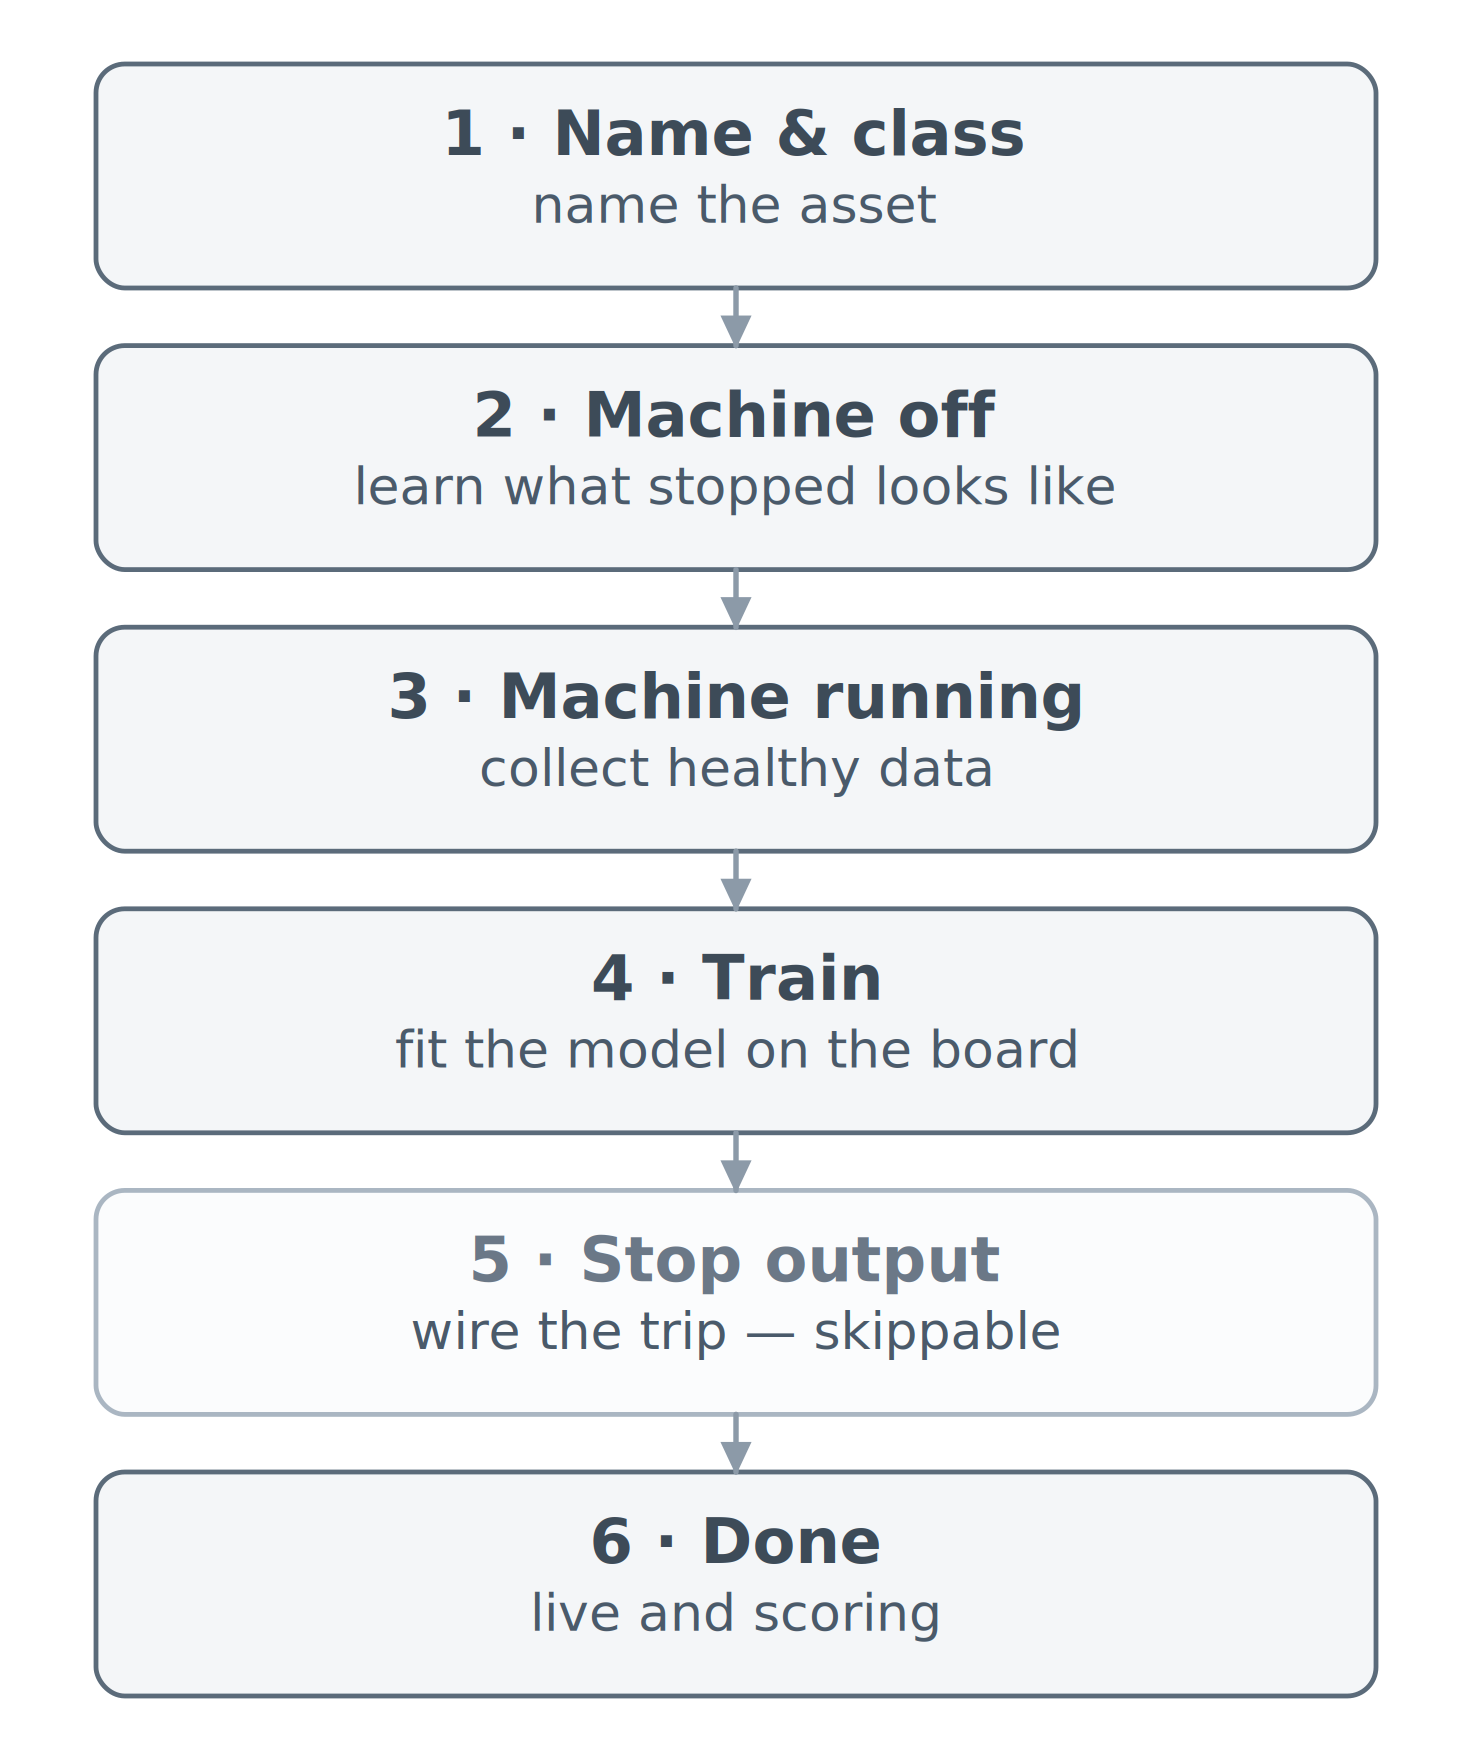
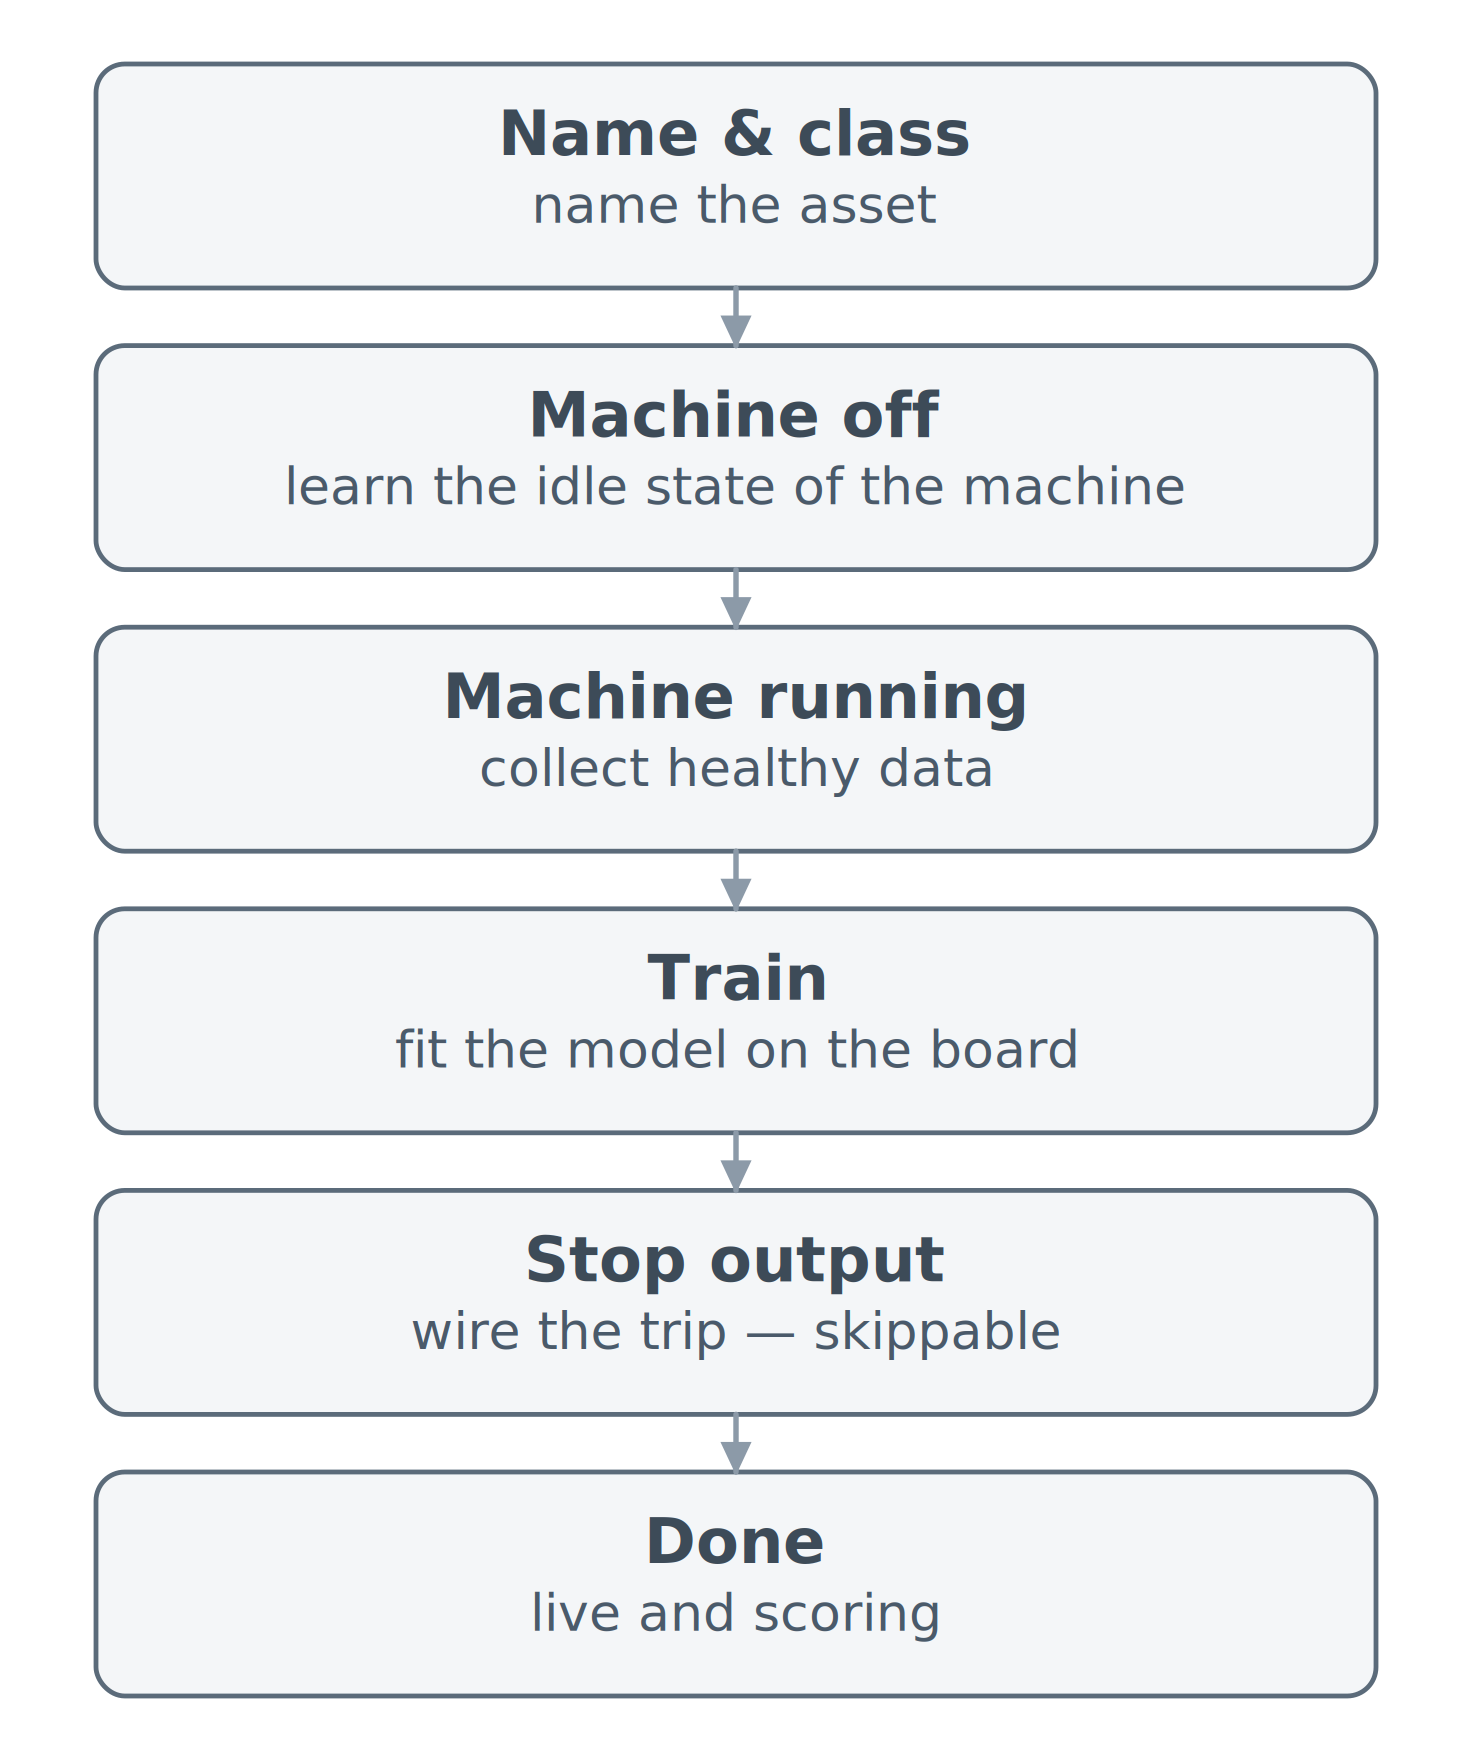
diagrams: 15f drops the step numbers; hackster article 2 revisions
Working-tree changes that predate this session, committed as their own
change: 15f's boxes lose their "1 ·" prefixes and the skippable "Stop
output" step loses its ghost role, and step 2's subtitle is reworded to
"learn the idle state of the machine".

diff --git a/report/diagrams/gen/d15_code_structure.py b/report/diagrams/gen/d15_code_structure.py
@@ -281,16 +281,15 @@ save(c, "15e-trip-path", scale=SCALE)
 c = Canvas(460, 550, margin=20)
 
 STEPS = [
-    (20, "1 \u00b7 Name & class", "name the asset"),
-    (108, "2 \u00b7 Machine off", "learn what stopped looks like"),
-    (196, "3 \u00b7 Machine running", "collect healthy data"),
-    (284, "4 \u00b7 Train", "fit the model on the board"),
-    (372, "5 \u00b7 Stop output", "wire the trip \u2014 skippable"),
-    (460, "6 \u00b7 Done", "live and scoring"),
+    (20, "Name & class", "name the asset"),
+    (108, "Machine off", "learn the idle state of the machine"),
+    (196, "Machine running", "collect healthy data"),
+    (284, "Train", "fit the model on the board"),
+    (372, "Stop output", "wire the trip \u2014 skippable"),
+    (460, "Done", "live and scoring"),
 ]
 for y, title, sub in STEPS:
-    role = "ghost" if "skippable" in sub else "neutral"
-    c.box(30, y, 400, 70, title, [sub], role=role,
+    c.box(30, y, 400, 70, title, [sub], role="neutral",
           title_size=TITLE - 1, body_size=BODY - 0.5)
 
 for y in (20, 108, 196, 284, 372):

diff --git a/hackster/article_2.md b/hackster/article_2.md
@@ -58,13 +58,13 @@ He looked out over the floor.
 
 He shrugged. "We're too small to be a customer."
 
-# 2 An Arduino UNO Q to Monitor the Whole Shop
+# 2 A Monitor Sized for small workshops
 
 # 2.1 An Open-Source Build Instead of a Quote
 
 Arjun, Ravi's son, was in his final year of engineering and had heard the compressor story at one family dinner too many. Over the holidays he decided to build his father a sensor himself.
 
-During his research he found [an open-source project on GitHub](https://github.com/rahuljeyaraj/edgeai-predictive-monitor). The EdgeAI Predictive Monitor, built on the Arduino UNO Q. He read the whole repository in one sitting.
+During his research he found an open-source project on GitHub. The [EdgeAI Predictive Monitor](https://github.com/rahuljeyaraj/edgeai-predictive-monitor), built on the Arduino UNO Q. He read the whole repository in one sitting.
 
 "Dad, come look at this," he called out.
 
@@ -80,23 +80,20 @@ Arjun explained the system to his father, part by part.
 [IMAGE: Sensor node on a machine housing, held by its magnet.]
 *A node goes on in a second and comes off just as fast*
 
-"A node is an accelerometer and a microphone in a small printed case, mounted on the machine housing with a strong magnet. The accelerometer feels vibration up to 6 kHz. The microphone hears sound up to 24 kHz. There are two types of node, a base station node and satellite nodes," he explained.
+"A node is an accelerometer and a microphone in a small printed case, mounted on the machine housing with a strong magnet," he began. "The accelerometer feels vibration up to 6 kHz. The microphone hears sound up to 24 kHz. There are two types of node, a base station node and satellite nodes."
 
 # 2.4 One Arduino UNO Q Runs the Whole Shop
 
-[IMAGE: report/diagrams/14-two-brains.png]
-*Two processors on one board, and the work each one does*
+"What is a base station?" Ravi asked.
 
-"What is a base station?" Ravi asked with curiosity.
-
-"The base station is the central node that takes all the decisions. It is built around the powerful Arduino UNO Q board, which carries two processors. The microcontroller listens to the asset it is attached to through its sensors. The Linux processor receives that sensor data and runs the AI models for every node to detect faults. It also serves the dashboard and sends the alerts. Doing this on any other board means buying two boards and wiring them together," Arjun replied.
+"The base station is the central node that takes all the decisions," Arjun said. "It is built around the powerful Arduino UNO Q board, which carries two processors. The microcontroller listens to the asset it is attached to through its sensors. The Linux processor receives that sensor data and runs the AI models for every node to detect faults. It also serves the dashboard and sends the alerts. Doing this on any other board means buying two boards and wiring them together."
 
 # 2.5 Machines Further Away Get a Satellite Node
 
 [IMAGE: report/diagrams/03-satellite-node-wiring.png]
 *A satellite node: the same sensors, a smaller processor, and Wi-Fi to the base station*
 
-"A satellite, on the other hand, is that same pair of sensors connected to a XIAO ESP32-S3. It watches its own asset and sends the readings to the base station over Wi-Fi. The base station costs around $100. Every satellite node after that costs about $25, so the system scales cheaply," Arjun continued.
+"A satellite, on the other hand, is that same pair of sensors connected to a XIAO ESP32-S3," he went on. "It watches its own asset and sends the readings to the base station over Wi-Fi. The base station costs around $100. Every satellite node after that costs about $25, so the system scales cheaply."
 
 # 2.6 The Network Is Whatever the Shop Already Has
 
@@ -105,23 +102,23 @@ Arjun explained the system to his father, part by part.
 
 "I guess we would need to set up a Wi-Fi network on the floor," Ravi said.
 
-"Not exactly," Arjun corrected his father. "If there is Wi-Fi on the floor, everything joins it, base station included. If there is none, the base station becomes the Wi-Fi access point itself, and the satellite nodes and the phone or laptop running the dashboard connect straight to it."
+"Not exactly," Arjun corrected. "If there is Wi-Fi on the floor, everything joins it, base station included. If there is none, the base station becomes the Wi-Fi access point itself, and the satellite nodes and the phone or laptop running the dashboard connect straight to it."
 
 # 2.7 Each Machine Is Taught Its Own Normal
 
 [IMAGE: report/diagrams/15f-setup-steps.png]
 *Commissioning an asset, step by step*
 
-Ravi liked the flexibility of the system. He needed to know more, so he asked, "How do we set up the sensor nodes with our machines?"
+Ravi liked the flexibility of the system. He needed to know more. "How do we set up the sensor nodes with our machines?"
 
-"Every new asset is commissioned once from the dashboard, and it takes only a few minutes. The node records the asset while it is idle and again while it runs under each of its normal operating conditions, and a model is trained on the base station from those recordings. Nothing is downloaded and no factory average is used. Different assets such as Pump 1 and Pump 2 end up with their own models, each judged against itself," Arjun replied patiently.
+"Every new asset is commissioned once from the dashboard, and it takes only a few minutes," Arjun said patiently. "The node records the asset while it is idle and again while it runs under each of its normal operating conditions, and a model is trained on the base station from those recordings. Nothing is downloaded and no factory average is used. Different assets such as Pump 1 and Pump 2 end up with their own models, each judged against itself."
 
 # 2.8 Fault Detection Is Drift Away From That Normal
 
 [IMAGE: report/diagrams/04-feature-pipeline.png]
 *From raw vibration and sound to the 536 numbers the models read*
 
-"Each node reduces its raw signal to 536 numbers, five times a second. That is 128 frequency bins and 6 summary values for each of four channels, the three vibration axes and the sound. During commissioning the model on the UNO Q learned to rebuild the healthy version of those numbers. Every reading after that, it rebuilds what it expects and compares it with what actually arrived. The bigger the difference, the further the machine has moved from healthy. Past a threshold set from that machine's own data, it reports a fault," he continued.
+"Each node reduces its raw signal to 536 numbers, five times a second," he continued. "That is 128 frequency bins and 6 summary values for each of four channels, the three vibration axes and the sound. During commissioning the model on the UNO Q learned to rebuild the healthy version of those numbers. Every reading after that, it rebuilds what it expects and compares it with what actually arrived. The bigger the difference, the further the machine has moved from healthy. Past a threshold set from that machine's own data, it reports a fault."
 
 Ravi struggled at first, but he understood the gist of it.
 
@@ -130,9 +127,9 @@ Ravi struggled at first, but he understood the gist of it.
 [IMAGE: report/diagrams/11-edge-impulse-flow.png]
 *Recording a fault, labelling it, and training the model that names it*
 
-"The same 536 numbers feed a second model that names the type of fault, such as bearing wear, imbalance or a loose mount. This one is trained per asset class instead of per machine, so a single model covers every pump in the shop. It needs recordings labelled with each fault, which the dashboard collects and uploads to Edge Impulse in a few clicks. That upload is the only step in the whole system that needs an internet connection," Arjun explained.
+"The same 536 numbers feed a second model that names the type of fault, such as bearing wear, imbalance or a loose mount," Arjun said. "This one is trained per asset class instead of per machine, so a single model covers every pump in the shop. It needs recordings labelled with each fault, which the dashboard collects and uploads to Edge Impulse in a few clicks. That upload is the only step in the whole system that needs an internet connection."
 
-"So we need to induce a fault and record that data, and later, when a similar fault happens, the system will alert us with the type of fault?" Ravi asked.
+"So we need to induce a fault and record that data, and later, when a similar fault happens, the system will alert us with the type of fault?"
 
 "Exactly."
 
@@ -141,40 +138,40 @@ Ravi struggled at first, but he understood the gist of it.
 [IMAGE: report/diagrams/08-dashboard-anatomy.png]
 *The dashboard, and what an open machine shows*
 
-"So how will we monitor the health of the assets? Do we need to put it up on a monitor?" Ravi enquired.
+"So how will we monitor the health of the assets? Do we need to put it up on a monitor?" Ravi asked.
 
-"Yes, the system has a dashboard. It is served from the UNO Q itself, so any phone or laptop on the shop network can open it and there is no app to install. It lists every machine with its status, and the status tiles at the top double as filters. Open a machine and you see how far it has drifted, plotted live against its own warning and fault lines, along with the fault name, the live vibration and sound spectra, and the last half hour of history. If a machine has been stopped, a banner says so above every page," Arjun answered.
+"Yes, the system has a dashboard," Arjun said. "It is served from the UNO Q itself, so any phone or laptop on the shop network can open it and there is no app to install. It lists every machine with its status, and the status tiles at the top double as filters. Open a machine and you see how far it has drifted, plotted live against its own warning and fault lines, along with the fault name, the live vibration and sound spectra, and the last half hour of history. If a machine has been stopped, a banner says so above every page."
 
 # 2.11 Status Light on Every Node
 
 [IMAGE: Node domes lit green, amber and red.]
 *Green, amber, red. The whole status of one machine*
 
-"But we do not have a person to spare to monitor the dashboard all day. All six of us are out on the floor, working alongside the machines." Ravi raised his concern.
+Ravi raised his concern. "But we do not have a person to spare to monitor the dashboard all day. All six of us are out on the floor, working alongside the machines."
 
-"EPM has a solution for that too. Each sensor node has an RGB dome on top of it. Green is healthy, amber is a warning, red is a fault. So you can read it from across the floor without opening anything," Arjun replied with a smile.
+"EPM has a solution for that too," Arjun said with a smile. "Each sensor node has an RGB dome on top of it. Green is healthy, amber is a warning, red is a fault. So you can read it from across the floor without opening anything."
 
 # 2.12 Fleet Summary on the Base Station
 
 [IMAGE: UNO Q LED matrix scrolling the fleet summary.]
 *The whole shop in one line, worst machine first*
 
-"And when some nodes are out of sight, you can still read the status of every machine without opening the dashboard. The UNO Q's own LED matrix scrolls a one line summary of the whole fleet, worst status first. One glance on the way past tells you whether anything is wrong," Arjun went on, encouraged by the happiness on his father's face.
+"And when some nodes are out of sight, you can still read the status of every machine without opening the dashboard," he added, encouraged by the happiness on his father's face. "The UNO Q's own LED matrix scrolls a one line summary of the whole fleet, worst status first. One glance on the way past tells you whether anything is wrong."
 
 # 2.13 Telegram Alert on a Phone
 
-"Scan the QR code on the dashboard once and that phone is subscribed to telegram notificatons. There is no account to create and no bot name to remember. We can select what alerts we need, either warnings and faults or faults only, and which machines, either the whole shop or a named few. The message carries the machine's name and the fault name."
+"Scan the QR code on the dashboard once and that phone is subscribed to Telegram notifications. There is no account to create and no bot name to remember. We can select what alerts we need, either warnings and faults or faults only, and which machines, either the whole shop or a named few. The message carries the machine's name and the fault name."
 
 "So I can know if something went wrong while I am at home."
 
-"Exactly."
+"Yes."
 
 # 2.14 Physical AI, Not Just an Alert
 
 [IMAGE: report/diagrams/07-trip-sequence.png]
 *From a confirmed fault to a stopped machine*
 
-"It also has the feature you were looking for. When a fault is confirmed, the system stops the machine itself to prevent further damage, and it stays stopped until someone clears it. It announces itself first: a banner counts down for 10 seconds, names the machine, and offers a Hold button for the case where the machine has to keep running."
+"It also has the feature you were looking for," Arjun said. "When a fault is confirmed, the system stops the machine itself to prevent further damage, and it stays stopped until someone clears it. It announces itself first: a banner counts down for 10 seconds, names the machine, and offers a Hold button for the case where the machine has to keep running."
 
 # 2.15 No Server, No Subscription
 
